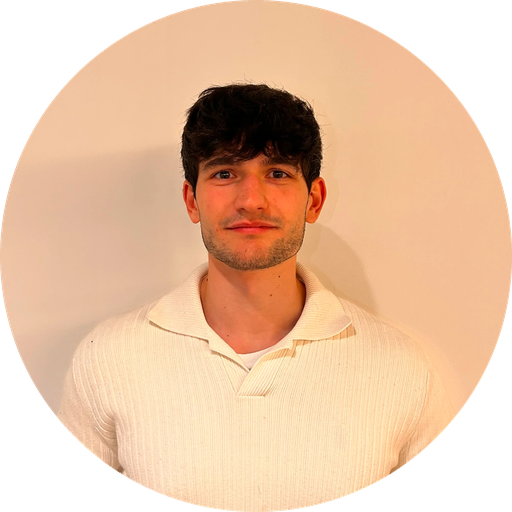
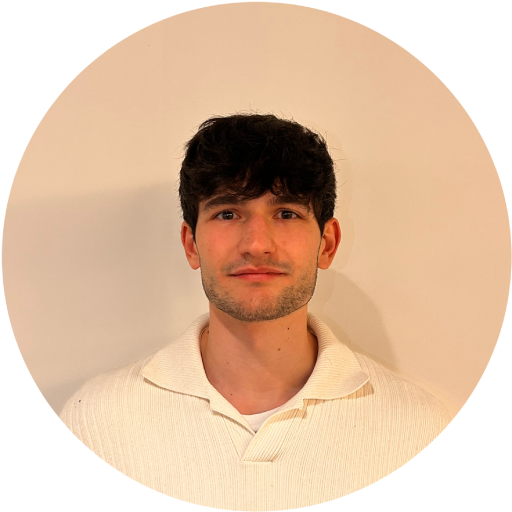
feat(profile pic): added better picture as profile

diff --git a/layouts/partials/custom_head.html b/layouts/partials/custom_head.html
@@ -1,6 +1,7 @@
 {{/* Add structured data (JSON-LD) for better SEO */}}
 {{ $person := site.GetPage "authors/admin" }}
 {{ $person_data := $person.Params }}
+{{ $avatar := $person.Resources.GetMatch "avatar*" }}
 
 <script type="application/ld+json">
 {
@@ -12,7 +13,16 @@
   "jobTitle": "{{ $person_data.role }}",
   "description": "{{ site.Params.marketing.seo.description }}",
   "url": "{{ site.BaseURL }}",
+  {{ if $avatar }}
+  "image": {
+    "@type": "ImageObject",
+    "url": "{{ $avatar.Permalink }}",
+    "width": "{{ $avatar.Width }}",
+    "height": "{{ $avatar.Height }}"
+  },
+  {{ else }}
   "image": "{{ site.BaseURL }}media/icon.png",
+  {{ end }}
   "sameAs": [
     {{ range $index, $profile := $person_data.profiles }}
     {{ if $index }},{{ end }}
@@ -47,10 +57,18 @@
 <meta name="author" content="{{ $person_data.title }}">
 <meta name="keywords" content="Matteo Sissa, Software Engineer, Software Architect, Politecnico di Milano, Java Developer, Microservices, Clean Architecture, SCRUM, Software Engineering, Modena, Milan, Italy, Computer Science, Software Development, Full Stack Developer, Backend Developer">
 
-{{/* Open Graph tags for social media */}}
+{{/* Open Graph tags for social media and Google */}}
 <meta property="og:type" content="profile">
 <meta property="profile:first_name" content="{{ $person_data.first_name }}">
 <meta property="profile:last_name" content="{{ $person_data.last_name }}">
+{{ if $avatar }}
+<meta property="og:image" content="{{ $avatar.Permalink }}">
+<meta property="og:image:width" content="{{ $avatar.Width }}">
+<meta property="og:image:height" content="{{ $avatar.Height }}">
+<meta property="og:image:type" content="image/png">
+<meta name="twitter:card" content="summary">
+<meta name="twitter:image" content="{{ $avatar.Permalink }}">
+{{ end }}
 
 {{/* Additional SEO meta tags */}}
 <meta name="robots" content="index, follow, max-image-preview:large, max-snippet:-1, max-video-preview:-1">
